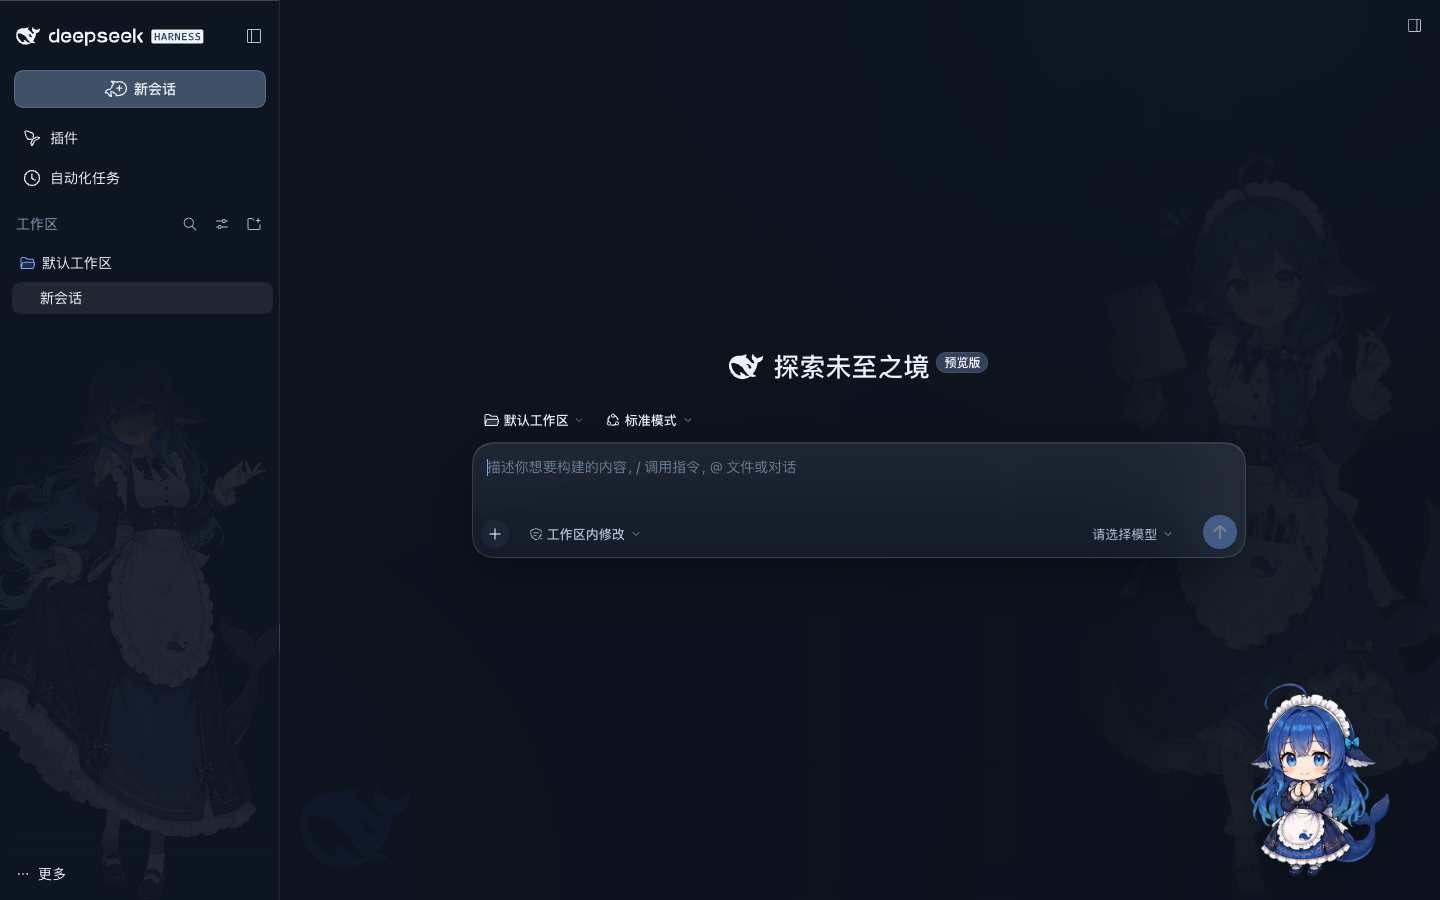
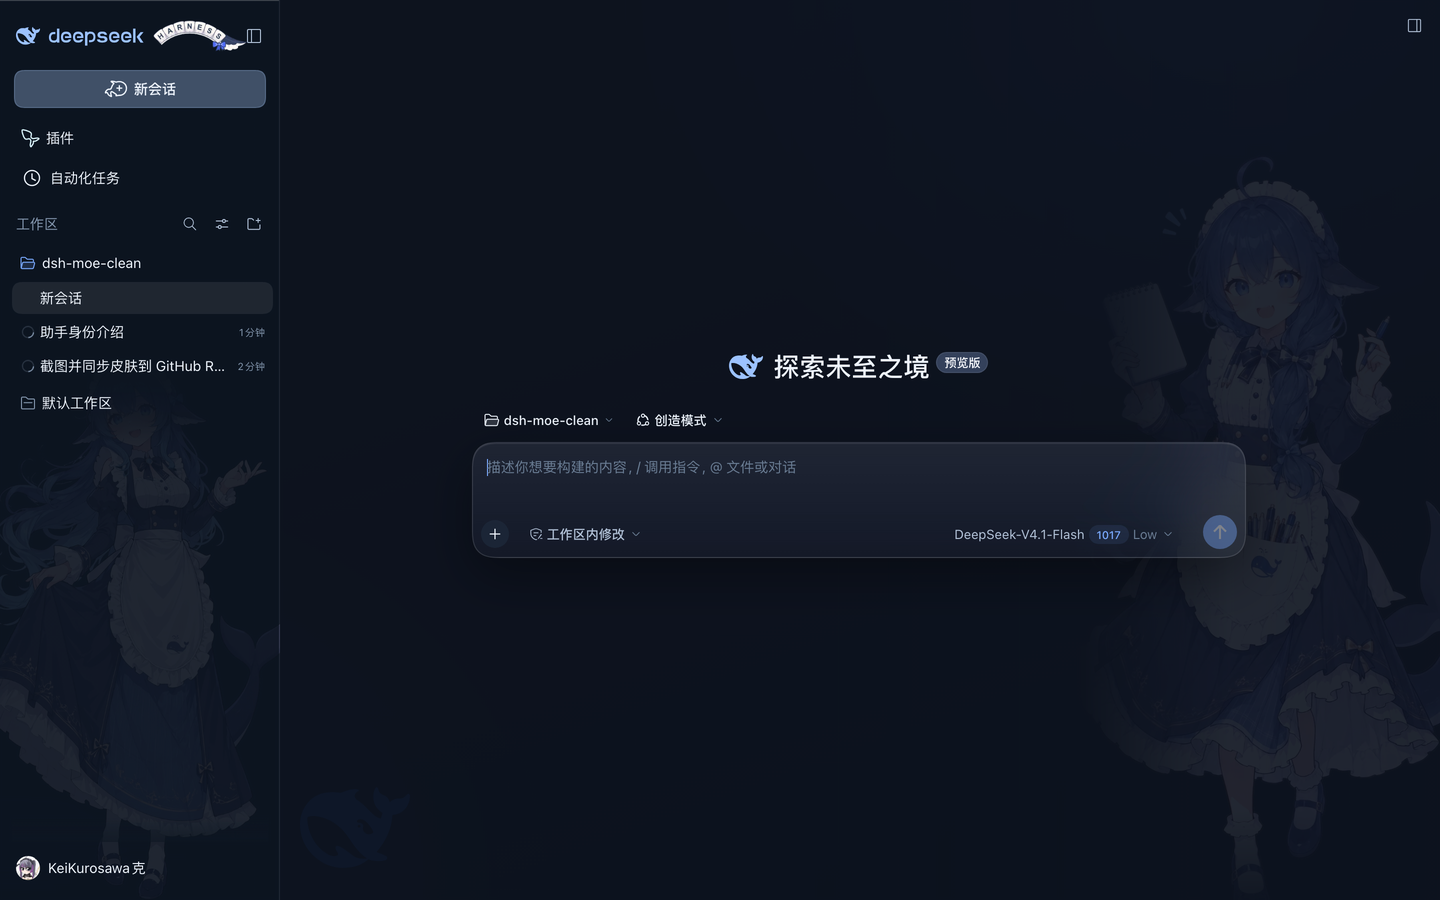
0.13.9: refresh README interface screenshots

diff --git a/README.md b/README.md
@@ -1,15 +1,21 @@
 # dsh-moe-clean · 鲸鱼娘轻量皮肤
 
-![version](https://img.shields.io/badge/version-0.6.3-2f6bf0?style=flat-square)
+![version](https://img.shields.io/badge/version-0.13.9-2f6bf0?style=flat-square)
 ![platform](https://img.shields.io/badge/DSH-0.2.x-1f2a3a?style=flat-square)
 ![code](https://img.shields.io/badge/code-MIT-2f6bf0?style=flat-square)
 ![artwork](https://img.shields.io/badge/artwork-CC%20BY--NC--SA%204.0-c5a468?style=flat-square)
 
 给 DeepSeek Harness（DSH）的一套安静、轻量的白蓝皮肤：白色为主、DeepSeek 蓝做点缀，侧栏和输入框是毛玻璃，右侧一张做了渐隐的鲸鱼娘女仆立绘。
 
-| 亮色 | 暗色 |
+## 界面
+
+| 亮色 · 新会话 | 暗色 · 新会话 |
 | --- | --- |
 | ![亮色](docs/preview-light.png) | ![暗色](docs/preview-dark.png) |
+
+| 设置弹窗 | 完全权限警告 |
+| --- | --- |
+| ![设置](docs/settings.png) | ![完全权限警告](docs/permission.png) |
 
 ## 为什么是轻量
 
@@ -28,13 +34,14 @@
 - **蓝色字标**：顶栏的 deepseek 鲸鱼与 HARNESS 徽章统一成 DeepSeek 蓝，暗色自动切更亮的浅蓝 `#9cc2ff`；
 - **HARNESS 缎带**：顶栏的 HARNESS 徽章替换成手绘风蕾丝缎带 + 蓝蝴蝶结，文字仍可读；
 - **插件图标 hover 动效**：平时显示 GIF 的第一帧（22px 静态图），鼠标移上去才播放摇摆动画，移开回到第一帧；暗色自动反相；
-- **弹窗女仆**：设置/登录等弹窗右下角一枚 17% 透明的 Q 版女仆，58% 宽，贴着圆角往外压一点、被裁掉少许；蒙版沿左上→右下方向 135° 淡出，不留方形边缘；
+- **弹窗女仆**：设置/登录等弹窗右下角一枚 40% 透明（烘焙进立绘）的 Q 版女仆，58% 宽，贴着圆角往外压一点、被裁掉少许；蒙版沿左上→右下方向 135° 淡出，不留方形边缘；
 - **完全权限警告**：只有「确认启用完全权限」这个风险弹窗换成另一张会指人的 Q 版女仆——40% 透明、42% 宽，往右下角压得更深（尾巴和鞋被弹窗边缘裁掉），伸出的食指正好落在按钮上方；
 - **弹层不透明度下限**：下拉菜单、popover 统一提到 80% 以上；输入框上方的斜杠 / 命令面板直接改成**实心**（亮 `#ffffff` / 暗 `#263040`），背后的对话正文一点不透；
+- **输入框底衬**：输入框底部的渐隐换成 60% 毛玻璃 + 20px 模糊（亮 `rgba(255,255,255,.6)` / 暗 `rgba(13,20,31,.6)`），最后一条消息不再从统计条后面透出锐利文字；
 - **自定义图标**：「新会话」换成鲸鱼气泡加号，「插件」换成鲸尾，导航尺寸统一；
 - **亮暗跟随**：不需要手动切换，沿用 DSH 的 `data-ds-dark-theme`。
 
-图标效果：
+侧栏字标与图标：
 
 ![侧栏图标](docs/icons.png)
 
@@ -64,7 +71,7 @@ dsh plugin --profile web add 'github:KurosawaGeeker/dsh-moe-clean'
 git clone https://github.com/KurosawaGeeker/dsh-moe-clean
 dsh plugin --profile desktop add ./dsh-moe-clean
 # 或
-npm pack && dsh plugin --profile desktop add ./dsh-moe-clean-0.6.3.tgz
+npm pack && dsh plugin --profile desktop add ./dsh-moe-clean-0.13.9.tgz
 ```
 
 > 桌面版由应用管理自己的 `desktop` profile，用 `web` profile 的命令不会装到桌面版里。
@@ -122,7 +129,7 @@ dsh-moe-clean/
 └─ NOTICE                # 署名链
 ```
 
-## 从 0.1 到 0.8
+## 从 0.1 到 0.13
 
 - **0.1**：暖米色极简主题，去掉原版皮肤的巴洛克装饰；
 - **0.2**：加入毛玻璃和右侧立绘，立绘 60% 渐隐；
@@ -134,7 +141,9 @@ dsh-moe-clean/
 - **0.8**：弹窗右下角加入 Q 版女仆水印（17% 透明、渐变淡出）；
 - **0.9**：「插件」图标 hover 时播放摇摆 GIF；
 - **0.11**：静止态改为 GIF 的首帧，不再用线框 SVG；
-- **0.11.3**：弹窗女仆贴到右下角、允许被圆角裁掉少许，渐隐改成一条 135° 对角蒙版。
+- **0.11.3**：弹窗女仆贴到右下角、允许被圆角裁掉少许，渐隐改成一条 135° 对角蒙版；
+- **0.12**：HARNESS 徽章换成手绘蕾丝缎带 + 蓝蝴蝶结；弹窗女仆提亮并往右下角压得更深；
+- **0.13**：弹窗改成 72% 冷白乳白面，斜杠 / 命令面板改成实心，完全权限警告单独换成会指人的 Q 版女仆，输入框底部加 60% 毛玻璃。
 
 ## 许可与署名
 
